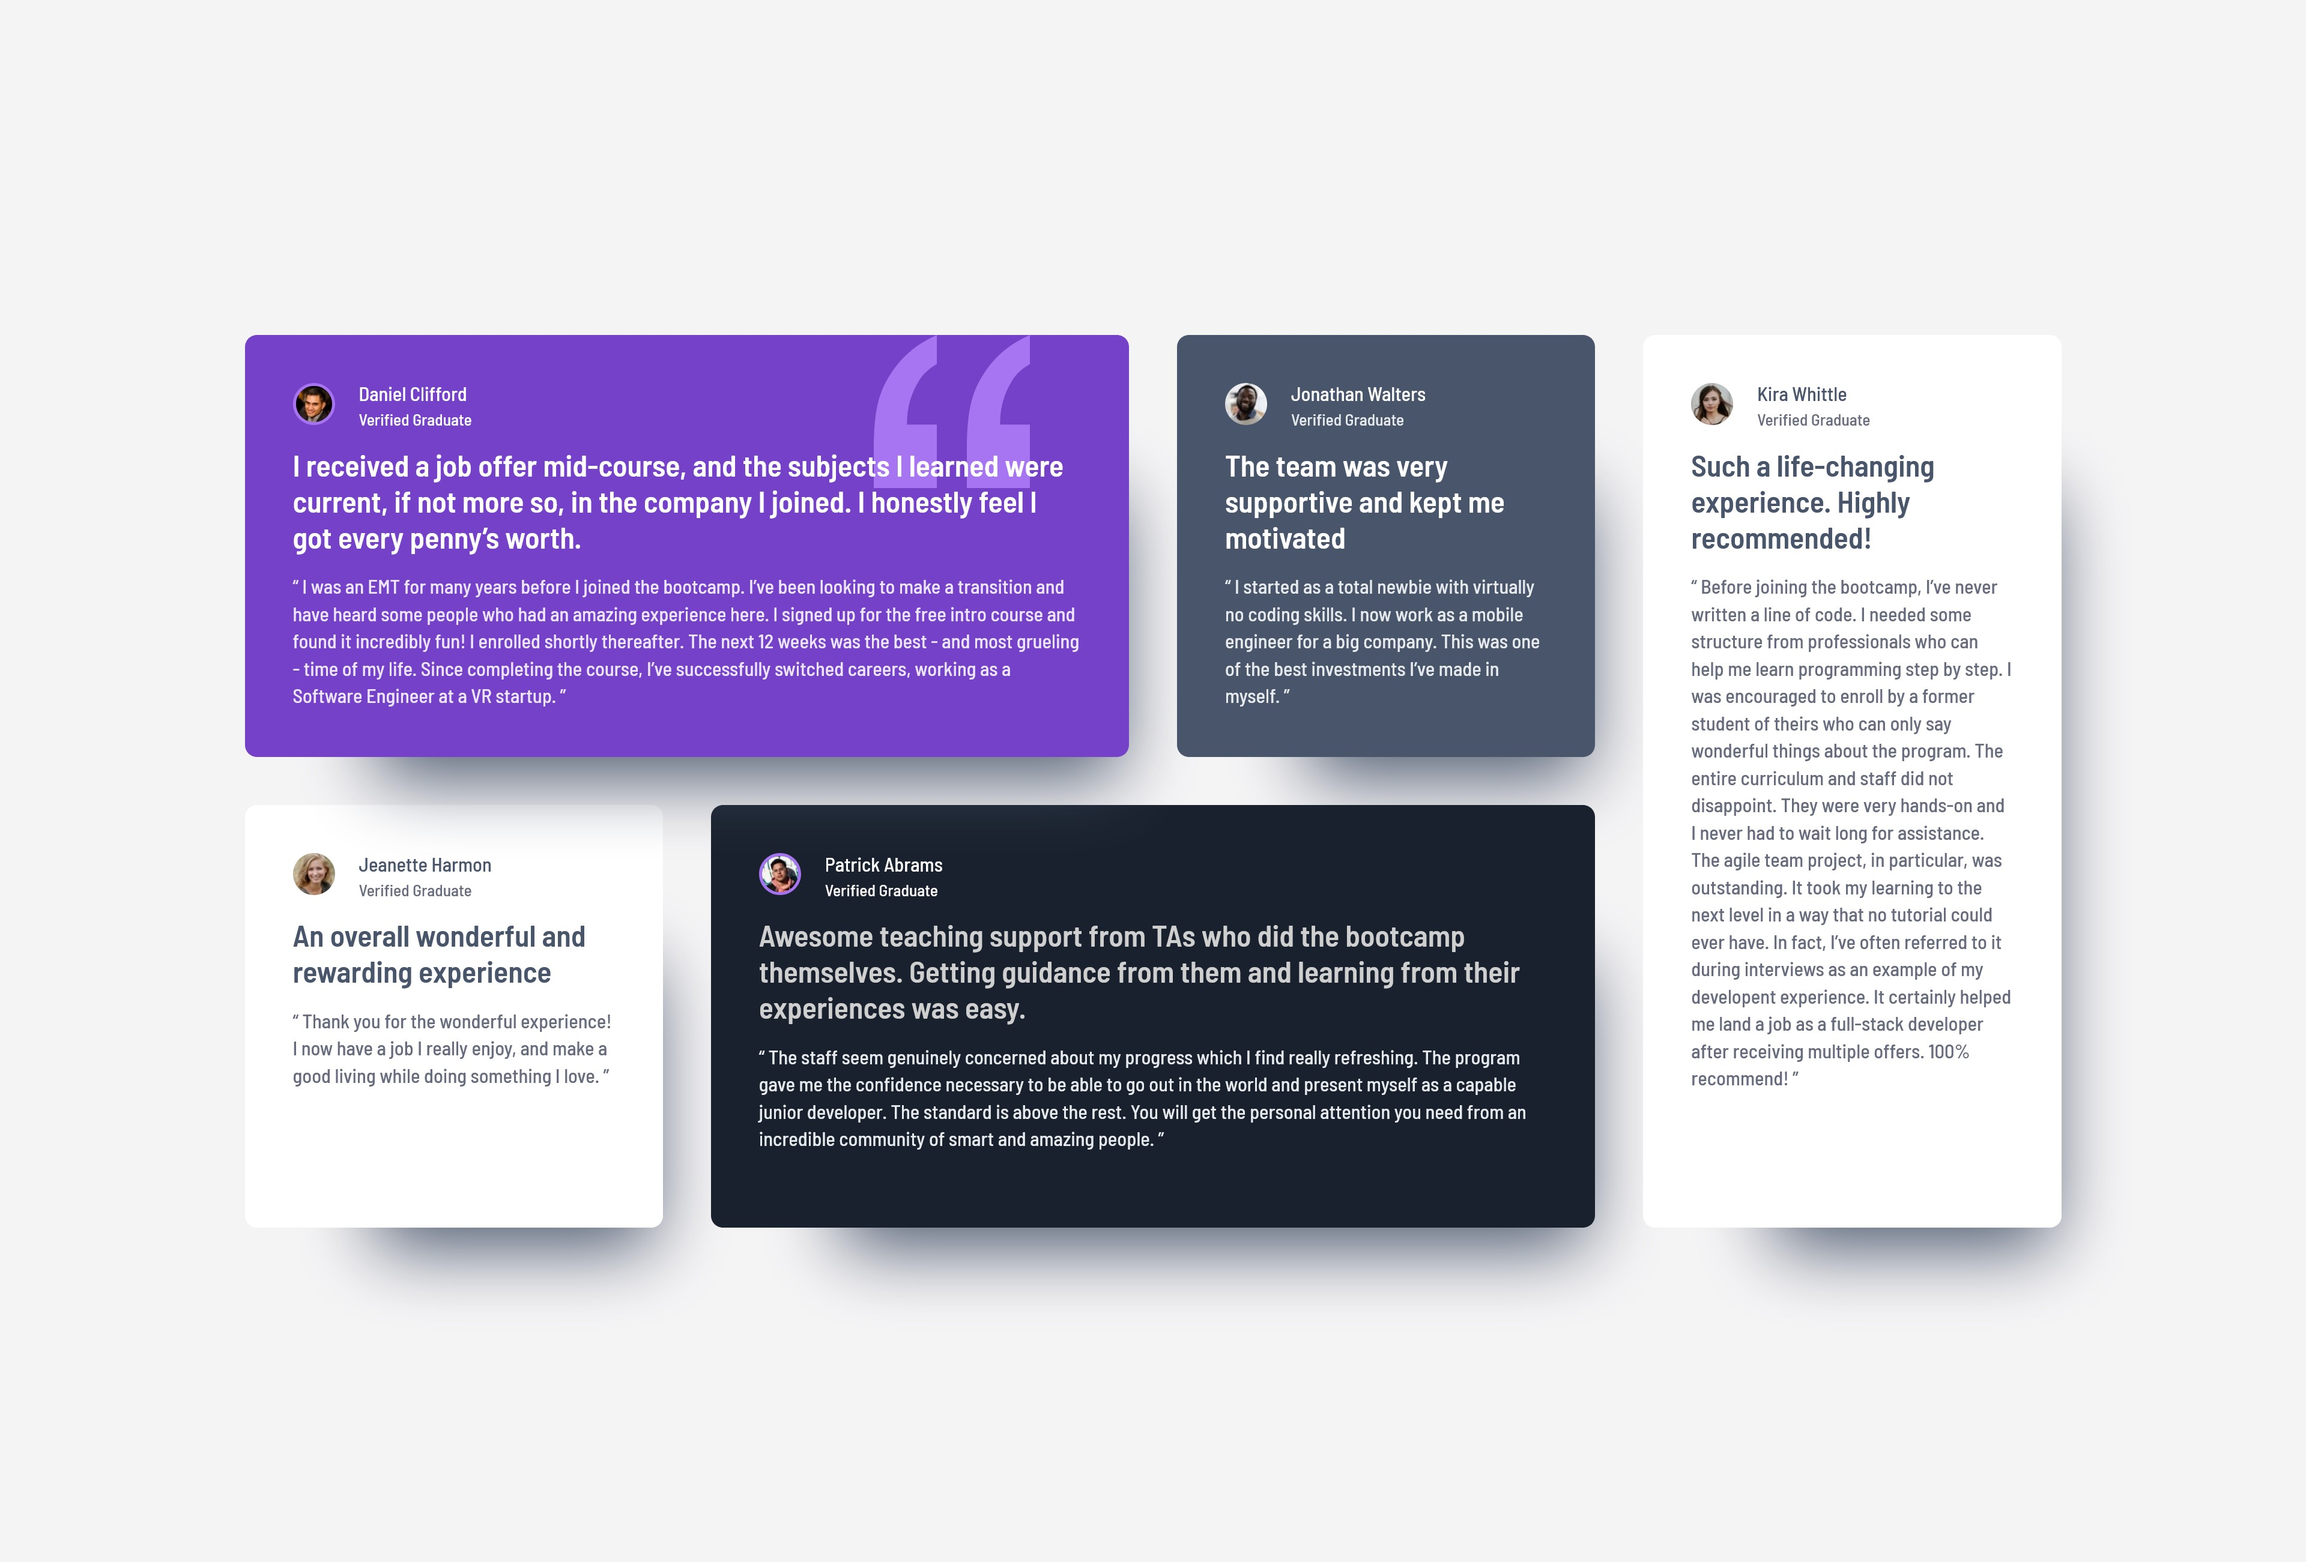
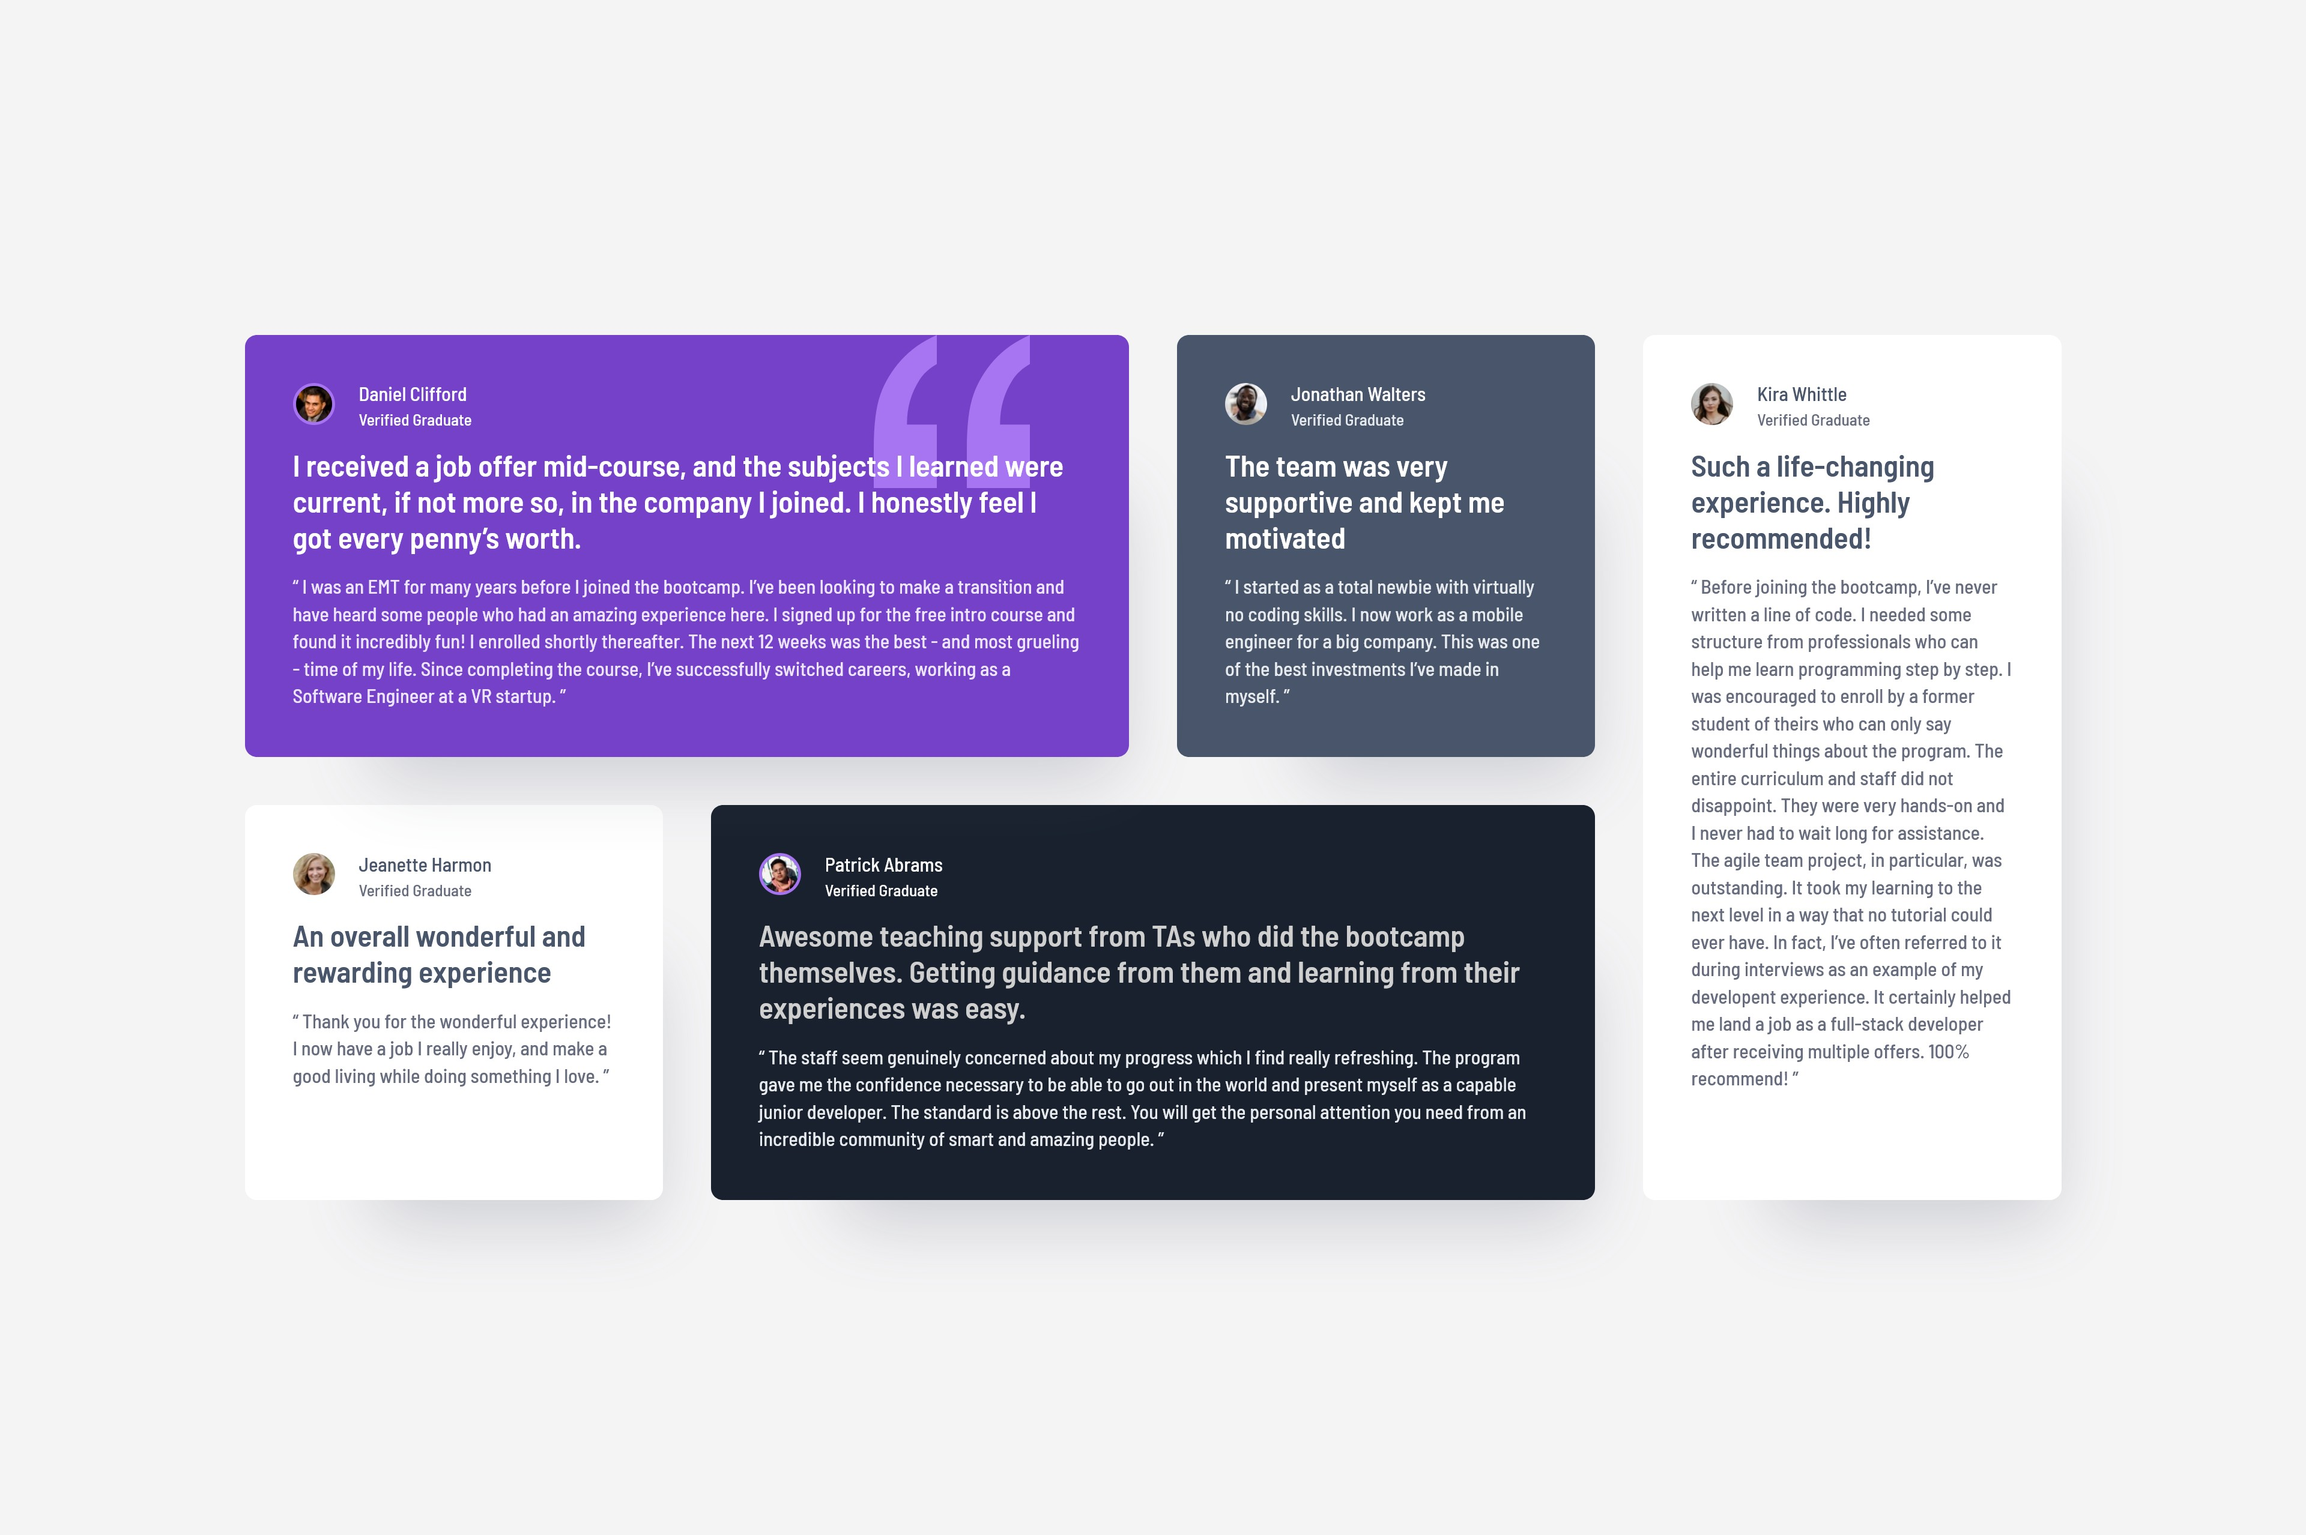
Update screenshot and style

Changed region(s): [[0.0938, 0.2163, 0.9062, 0.8342]]

diff --git a/assets/styles/style.css b/assets/styles/style.css
@@ -77,7 +77,7 @@ main{
 .card{
     position: relative;
     border-radius: 0.8rem;
-    box-shadow: 40px 60px 50px -47px rgba(72, 85, 106, 24.74);
+    box-shadow: 40px 60px 50px -47px rgba(72, 85, 106, 24.74%);
     padding: 3.2rem;
     display: flex;
     flex-direction: column;
